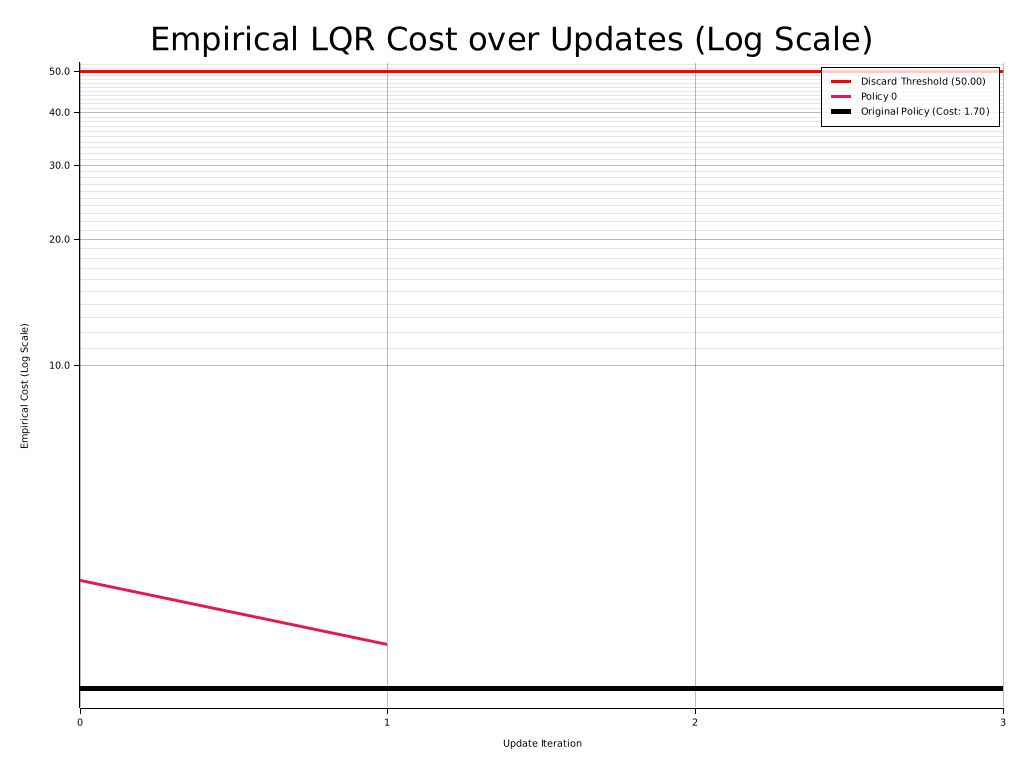
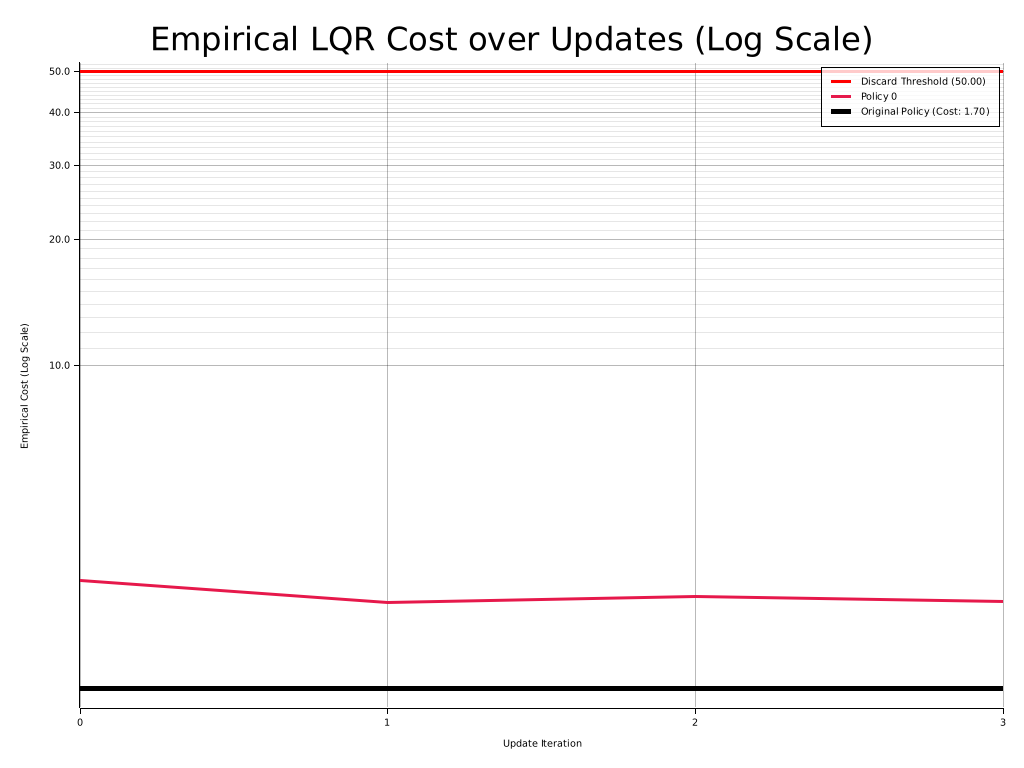
confidence

diff --git a/src/learning/disag_implicit_q_learning.rs b/src/learning/disag_implicit_q_learning.rs
@@ -188,14 +188,14 @@ fn train_iql_actor(
     num_transitions: usize,
     device: &<B as BackendTypes>::Device,
     previous_state: Option<IqlModelState>,
-) -> (MlpNetwork<B>, IqlModelState) {
-    // STOCHASTIC ACTOR: Output dimension is now DIM_U * 2 (Mean and Log_Std)
-    let mut actor = MlpNetwork::<B>::new(DIM_X, 32, DIM_U * 2, device);
-    let mut critic_q1 = MlpNetwork::<B>::new(DIM_X + DIM_U, 32, 1, device);
-    let mut critic_q2 = MlpNetwork::<B>::new(DIM_X + DIM_U, 32, 1, device);
-    let mut value_v = MlpNetwork::<B>::new(DIM_X, 32, 1, device);
-    let mut target_q1 = MlpNetwork::<B>::new(DIM_X + DIM_U, 32, 1, device);
-    let mut target_q2 = MlpNetwork::<B>::new(DIM_X + DIM_U, 32, 1, device);
+) -> (MlpNetwork<B>, MlpNetwork<B>, MlpNetwork<B>, IqlModelState) {
+    // <-- UPDATED SIGNATURE
+    let mut actor = MlpNetwork::<B>::new(DIM_X, 16, DIM_U * 2, device);
+    let mut critic_q1 = MlpNetwork::<B>::new(DIM_X + DIM_U, 16, 1, device);
+    let mut critic_q2 = MlpNetwork::<B>::new(DIM_X + DIM_U, 16, 1, device);
+    let mut value_v = MlpNetwork::<B>::new(DIM_X, 16, 1, device);
+    let mut target_q1 = MlpNetwork::<B>::new(DIM_X + DIM_U, 16, 1, device);
+    let mut target_q2 = MlpNetwork::<B>::new(DIM_X + DIM_U, 16, 1, device);
 
     if let Some(state) = previous_state {
         println!(">>> Restoring previous IQL networks to resume training...");
@@ -216,7 +216,7 @@ fn train_iql_actor(
     let mut optim_v = AdamConfig::new().init::<B, MlpNetwork<B>>();
 
     println!(">>> Starting Original Paper IQL Optimization Loop...");
-    let epochs = 60;
+    let epochs = 30;
     let batch_size = 256;
     let bar_width: usize = 40;
     let tau = 0.005; // Polyak averaging step size
@@ -269,31 +269,27 @@ fn train_iql_actor(
 
             let pi_output = actor.forward(b_s);
 
-            // Slice into Mean and Log Std. (Assumes DIM_U is 1 for [batch_size, 2] output)
             let mu = pi_output.clone().slice([0..current_batch_size, 0..DIM_U]);
             let log_std = pi_output
                 .slice([0..current_batch_size, DIM_U..(DIM_U * 2)])
                 .clamp(-5.0, 2.0);
             let std = log_std.clone().exp();
 
-            // Calculate Gaussian Negative Log-Likelihood
             let variance = std.powf_scalar(2.0);
             let diff_sq = (b_a.clone() - mu).powf_scalar(2.0);
 
-            // log_prob = -0.5 * ( (a-mu)^2 / var + 2*log_std + log(2*pi) )
             let log_prob =
                 (diff_sq / variance + log_std.mul_scalar(2.0) + 1.837877).mul_scalar(-0.5);
-            let actor_loss = (weight * -log_prob).mean(); // Maximize weighted log_prob
+            let actor_loss = (weight * -log_prob).mean();
 
             let grads_actor = actor_loss.backward();
             let grads_actor_params = GradientsParams::from_grads(grads_actor, &actor);
             actor = optim_actor.step(LEARNING_RATE, actor, grads_actor_params);
 
-            // --- 5. TARGET NETWORK SOFT UPDATE (Polyak Averaging) ---
+            // --- 5. TARGET NETWORK SOFT UPDATE ---
             let t_q1_rec = target_q1.clone().into_record();
             let c_q1_rec = critic_q1.clone().into_record();
             target_q1 = target_q1.load_record(MlpNetworkRecord {
-                // Auto-generated by Burn
                 layer1: blend_linear(t_q1_rec.layer1, c_q1_rec.layer1, tau),
                 layer2: blend_linear(t_q1_rec.layer2, c_q1_rec.layer2, tau),
                 output_layer: blend_linear(t_q1_rec.output_layer, c_q1_rec.output_layer, tau),
@@ -312,7 +308,6 @@ fn train_iql_actor(
             start_idx += batch_size;
         }
 
-        // --- Logging ---
         let progress = (epoch + 1) as f64 / epochs as f64;
         let filled_len = (progress * bar_width as f64).round() as usize;
         let empty_len = bar_width.saturating_sub(filled_len);
@@ -343,7 +338,8 @@ fn train_iql_actor(
         value_v: value_v.clone().into_record(),
     };
 
-    (actor, new_state)
+    // Return the critics alongside the actor!
+    (actor, critic_q1, critic_q2, new_state)
 }
 
 pub fn get_policy(batch: &[StateAction], current_policy: &Policy) -> Policy {
@@ -364,7 +360,8 @@ pub fn get_policy(batch: &[StateAction], current_policy: &Policy) -> Policy {
         .and_then(|state_any| state_any.downcast_ref::<Mutex<Option<IqlModelState>>>())
         .and_then(|mutex| mutex.lock().unwrap().take());
 
-    let (actor, new_state) = train_iql_actor(
+    // Extract both critics from the updated training function
+    let (actor, critic_q1, critic_q2, new_state) = train_iql_actor(
         t_states,
         t_actions,
         t_rewards,
@@ -374,17 +371,17 @@ pub fn get_policy(batch: &[StateAction], current_policy: &Policy) -> Policy {
         previous_state,
     );
 
-    println!(">>> Converting Actor to pure Inference backend...");
+    println!(">>> Converting Networks to pure Inference backend...");
 
-    let infer_actor = actor.valid();
     type InferBackend = <B as AutodiffBackend>::InnerBackend;
     let infer_device = <InferBackend as BackendTypes>::Device::default();
 
-    // Extract gains from the current policy, fallback to the global analytic LQR gains if None
-    let fallback_gains = current_policy.get_gains().unwrap_or(ANALYTIC_LQR_POLICY);
+    // Convert all networks to inference mode
+    let infer_actor = actor.valid();
+    let infer_q1 = critic_q1.valid();
+    let infer_q2 = critic_q2.valid();
 
-    // --- NEW: Create a thread-safe variable to track the previous alpha ---
-    // We initialize it to 1.0 (assuming we start by fully trusting the Neural Network)
+    let fallback_gains = current_policy.get_gains().unwrap_or(ANALYTIC_LQR_POLICY);
     let prev_alpha = Arc::new(Mutex::new(0.0f64));
 
     Policy::new(
@@ -399,40 +396,46 @@ pub fn get_policy(batch: &[StateAction], current_policy: &Policy) -> Policy {
             let state_tensor = Tensor::<InferBackend, 1>::from_data(state_array, &infer_device)
                 .reshape([1, DIM_X]);
 
-            // 1. Get NN Prediction & Uncertainty
-            let action_tensor = infer_actor.forward(state_tensor);
-            let nn_action = action_tensor.clone().slice([0..1, 0..DIM_U]).into_scalar() as f64;
+            // 1. Get NN Prediction
+            let action_tensor = infer_actor.forward(state_tensor.clone());
+            // Slice out only the mean action
+            let action_mean = action_tensor.slice([0..1, 0..DIM_U]);
+            let nn_action = action_mean.clone().into_scalar() as f64;
 
-            let log_std = action_tensor
-                .slice([0..1, DIM_U..(DIM_U * 2)])
-                .into_scalar() as f64;
-            let std = log_std.clamp(-5.0, 2.0).exp();
+            // 2. CRITIC DISAGREEMENT EVALUATION
+            // Concatenate State + Action along dimension 1
+            let sa_tensor = Tensor::cat(vec![state_tensor, action_mean], 1);
 
-            // 2. Linear Action
+            let q1 = infer_q1.forward(sa_tensor.clone()).into_scalar() as f64;
+            let q2 = infer_q2.forward(sa_tensor).into_scalar() as f64;
+
+            // The mathematical anomaly score
+            let disagreement = (q1 - q2).abs();
+
+            // 3. Linear Action
             let linear_action = fallback_gains[0] * state_vec[0]
                 + fallback_gains[1] * state_vec[1]
                 + fallback_gains[2] * state_vec[2]
                 + fallback_gains[3] * state_vec[3];
 
-            // 3. Calculate Raw Blend Factor
-            let safe_std = 0.05;
-            let unsafe_std = 0.2;
+            let safe_diff = 0.0008; // Below this difference, 100% NN
+            let unsafe_diff = 0.005; // Above this difference, 100% Linear
 
-            let mut raw_alpha = (unsafe_std - std) / (unsafe_std - safe_std);
+            let mut raw_alpha = (unsafe_diff - disagreement) / (unsafe_diff - safe_diff);
             raw_alpha = raw_alpha.clamp(0.0, 1.0);
 
             let mut p_alpha_guard = prev_alpha.lock().unwrap();
 
+            // Exponential Moving Average Smoothing
             let alpha_lowpass_constant: f64 = 0.1;
             let smoothed_alpha = alpha_lowpass_constant * raw_alpha
                 + (1.0 - alpha_lowpass_constant) * *p_alpha_guard;
 
-            // Save the smoothed alpha for the next tick
             *p_alpha_guard = smoothed_alpha;
 
-            // println!("alpha: {}", smoothed_alpha); // Uncomment to debug smooth transitions
+            //println!("diff: {:.4} | alpha: {:.4}", disagreement, smoothed_alpha);
 
-            // 4. Return the blended action
+            // 5. Return the blended action
             (smoothed_alpha * nn_action) + ((1.0 - smoothed_alpha) * linear_action)
         },
         Some(fallback_gains),

diff --git a/src/learning/mod.rs b/src/learning/mod.rs
@@ -1,4 +1,5 @@
 pub mod backlash_estimating_lstdq;
+pub mod disag_implicit_q_learning;
 pub mod implicit_q_learning;
 pub mod lstdq;
 pub mod lstdq_2019;
